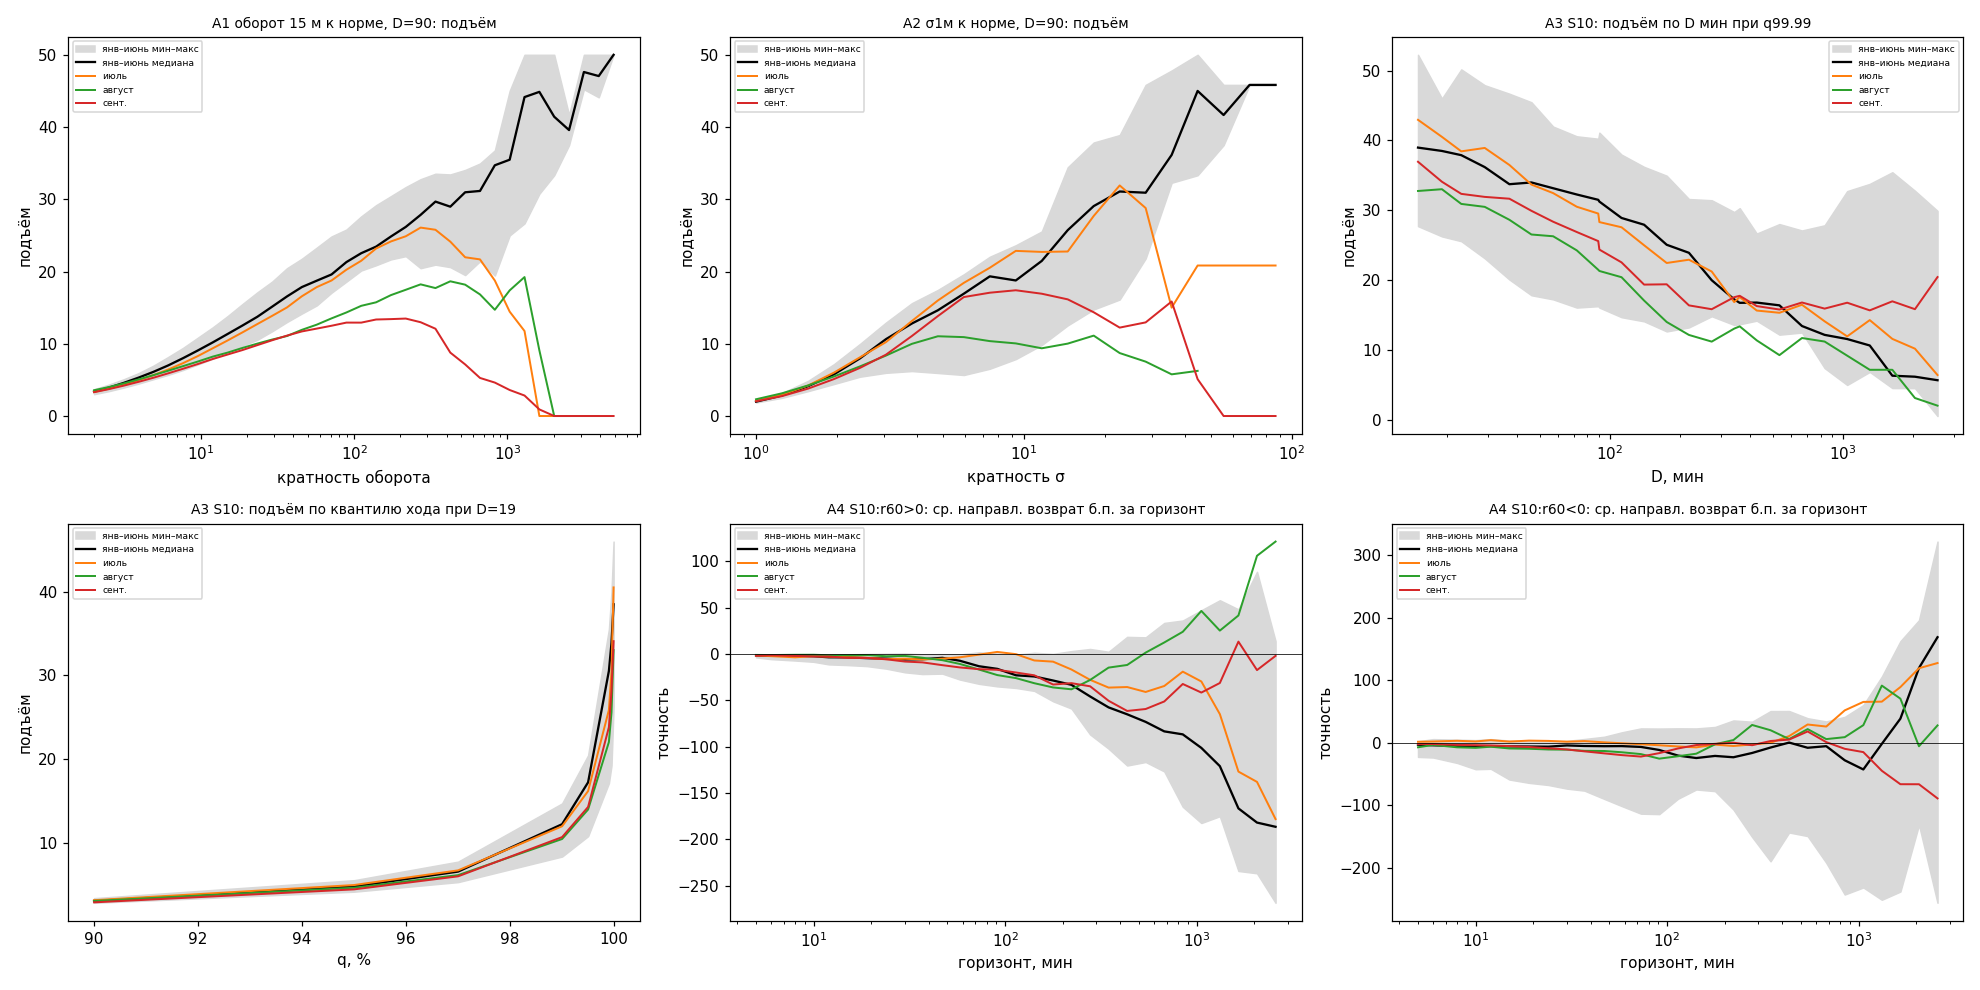
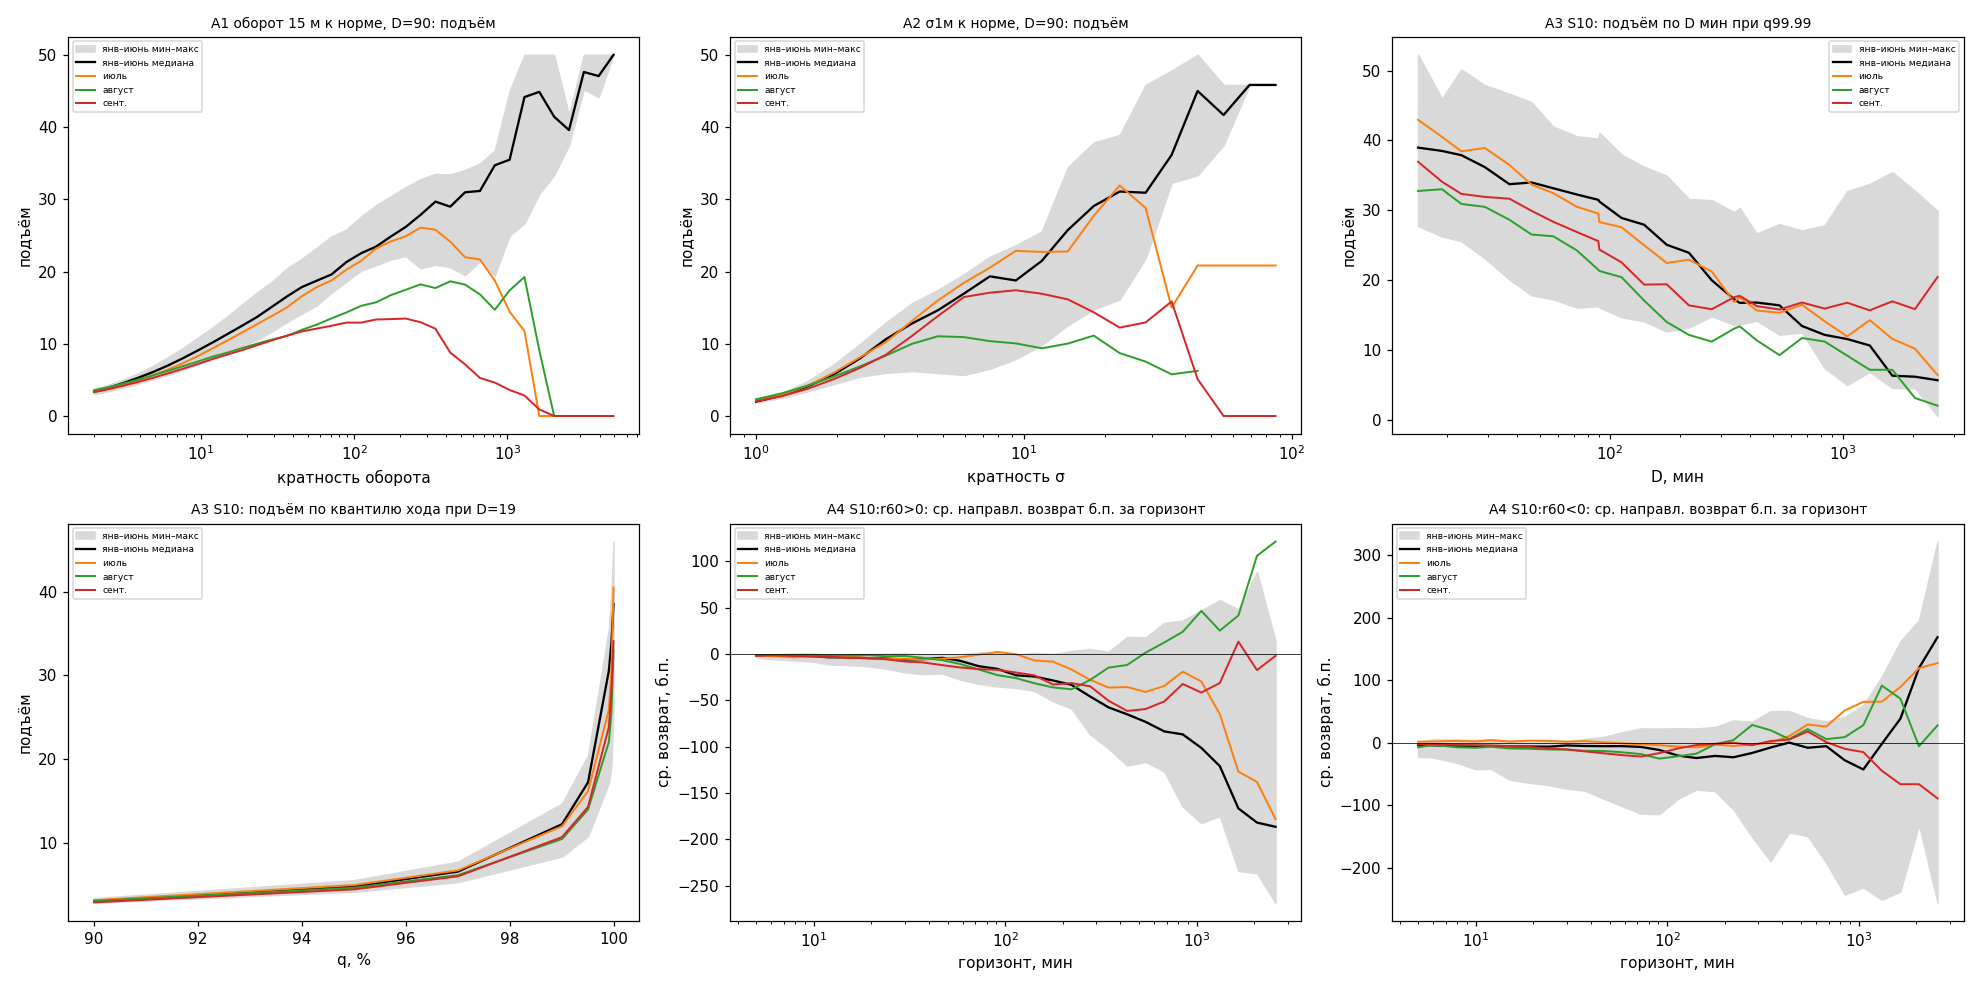
[Исследователь] TK-446 v3: правка текста по возврату Судьи (A1 >×1000, A2 конец, A3 база/D), png: n=0 разрыв

diff --git a/docs/findings/pump-titration-curves-2026-10-28.md b/docs/findings/pump-titration-curves-2026-10-28.md
@@ -5,7 +5,7 @@
 **Артефакты:** `pump-titration-curves-2026-10-28-all.csv` (все кривые, 9 мес. × 1356 строк (v2 после возврата Судьи)), `-selected.csv` (выбранные пороги по месяцам), `.png` (кривые; чёрный = медиана янв–июнь, серый = мин–макс янв–июнь, оранжевый июль, зелёный авг., красный сент.). Код: `tools/compute/tk446-curves.py` (счёт, calc, куб TK-436/439/440, метка/база/кластерный бутстрап как TK-443), `tk446-report.py` (выбор и сводка).
 
 ## Правило (заморожено до счёта; v2 — расширение сеток по возврату Судьи 29.10, правило выбора то же)
-Лог-шаг ×1,25. Порог на семью = argmax от **min по янв–июнь** нижней границы CI подъёма (число не назначается; самоограничивает хвосты с малым N). Проверка июль / авг. / сент. **без подбора**, месяцы отдельно, направление «любой». Подъём = точность / база метки. Сетки v2: A1 до ×4930 (было ×827), A2 до ×86,7 (было ×18,2), A3 D=15…2880 мин и q до 99,99 (было D≥90, q≤99,9). Испытаний: 1356 строк на месяц; выбор по 6 месяцам, проверка чистая. CI без поправки на число испытаний и 3 тестовых месяца.
+Лог-шаг ×1,25. Порог на семью = argmax от **min по янв–июнь** нижней границы CI подъёма (число не назначается; самоограничивает хвосты с малым N). Проверка июль / авг. / сент. **без подбора**, месяцы отдельно, направление «любой». Подъём = точность / база метки. Сетки v2: A1 до ×4930 (было ×827), A2 до ×86,7 (было ×18,2), A3 D=15…2541 мин (макс. D в csv) и q до 99,99 (было D≥90, q≤99,9). Испытаний: 1356 строк на месяц; выбор по 6 месяцам, проверка чистая. CI без поправки на число испытаний и 3 тестовых месяца.
 
 ## Выбранный порог (по min-lo янв–июнь) — подъём [CI] на проверке
 | ось | порог (измеренный) | июль | август | сент. |
@@ -19,9 +19,9 @@
 | A3 S10, D×q | D=19 мин, q99,99 | 40,5 [33,3;49,2] | 33,0 [28,2;39,2] | 34,1 [27,1;39,1] (точность 0,007–0,008) |
 
 ## Где пик кривой по месяцам (N ≥ 100 срабатываний; подъём [lo;hi])
-- **A1 q15, D=90:** пик ×217–662 — янв ×424 (27,7), фев ×217 (22,1), март ×662 (35,0), апр ×529 (33,7), май ×271 (24,2), июнь ×339 (33,0), июль ×271 (26,1), авг. ×424 (18,6), сент. ×217 (13,5). Выше ×1000 в проверочных месяцах срабатываний нет (кривая на png падает до 0 = пусто), янв–июнь — единицы–десятки срабатываний с CI на сотни % ширины. Выбранный ×111 = компромисс N/CI, не пик: пик по месяцу на 2–6 раз выше.
-- **A2:** пик ×9,3–22,7 (N≥100): сент. ×9,3 (17,4), авг. ×18,2 (11,1), июль ×18,2 (27,7), июнь ×14,6 (34,4); дальше N падает до десятков (янв–июнь медиана растёт до ×70, но CI от 0 при n≈12–80). Конец сетки (×87) достигнут — выше срабатываний нет. Выбор min-lo = ×35,5, где в проверке n=20–82: **A2 выше ×20 не подтверждается на проверке** (CI доходят до 0).
-- **A3:** лучшая D = самая короткая: в 7 из 9 месяцев пик на D=15, в остальных 19 и 72 мин; q — всегда верхний край 99,99. **Край по q не найден** (максимум на конце, N ещё 28–59 тыс. ячеек); по D край у нижнего предела сетки 15 мин. Подъём падает с ростом D: янв–июнь медиана ~39 при D≈19 → ~16 при D≈360 → ~6 при 48 ч. Точность абсолютно низкая (0,5–1 %) — база метки при коротком ходе ~0,2 %.
+- **A1 q15, D=90:** пик ×217–662 — янв ×424 (27,7), фев ×217 (22,1), март ×662 (35,0), апр ×529 (33,7), май ×271 (24,2), июнь ×339 (33,0), июль ×271 (26,1), авг. ×424 (18,6), сент. ×217 (13,5). Выше ×1000 срабатывания есть, но их мало и подъём падает: сент. ×1034…×4930 n=236/194/164/138/109/77/68/54, подъём 3,6→2,8→0,9→0 — **край в сентябре найден** (реальный спад); июль n=45/17/6/3/2 до ×2524, авг. n=46/26/11/3/3/3/1 до ×3944 (единицы срабатываний, вывод не делается); янв–июнь — единицы–десятки срабатываний с CI на сотни % ширины. На png точки без срабатываний (n=0) — разрыв линии, подъём 0 при n>0 — точка на нуле. Выбранный ×111 = компромисс N/CI, не пик: пик по месяцу на 2–6 раз выше.
+- **A2:** пик ×9,3–22,7 (N≥100): сент. ×9,3 (17,4), авг. ×18,2 (11,1), июль ×18,2 (27,7), июнь ×14,6 (34,4); дальше N падает до десятков (янв–июнь медиана растёт до ×70, но CI от 0 при n≈12–80). На конце сетки (×86,7) срабатывания есть, но их мало: июнь n=12 (45,8), июль n=12 (20,8), сент. n=12 (0); в июне/июле n=12 неизменно на ×44…×87 — плато из одних и тех же срабатываний. N≥100 кончается у ×9–23, дальше ≤12–49 срабатываний — вывод не делается. Выбор min-lo = ×35,5, где в проверке n=20–82: **A2 выше ×20 не подтверждается на проверке** (CI доходят до 0).
+- **A3:** лучшая D = самая короткая: в 7 из 9 месяцев пик на D=15, в остальных 19 и 72 мин (май/авг. 19, июнь 72); q — всегда верхний край 99,99. **Край по q не найден** (максимум на конце, N ещё 28–59 тыс. ячеек); по D край у нижнего предела сетки 15 мин. Подъём падает с ростом D: янв–июнь медиана ~39 при D≈19 → ~16 при D≈360 → ~6 при самых длинных D (максимум в csv D=2541 мин ≈ 42 ч). Точность абсолютно низкая (0,5–1 %) — база метки (D=15…, q99,99) 0,02 % (csv: 0,0002); в семье база от 0,01 % до 20 % по q и D.
 
 ## Что кривые показали
 1. **A1:** подъём растёт с кратностью оборота до ×200–660 по месяцам (не ×70–140: прежний вывод Судья снял), потом исчезают срабатывания. Цена — редкость: ~0,1 срабатывания/сутки/монету при ×111, на порядок меньше при ×500. Сентябрь слабее всех месяцев (пик 13,5 против 22–35 янв–июнь) — сдвиг режима, а не шум (CI не пересекаются с мартом/апрелем).
